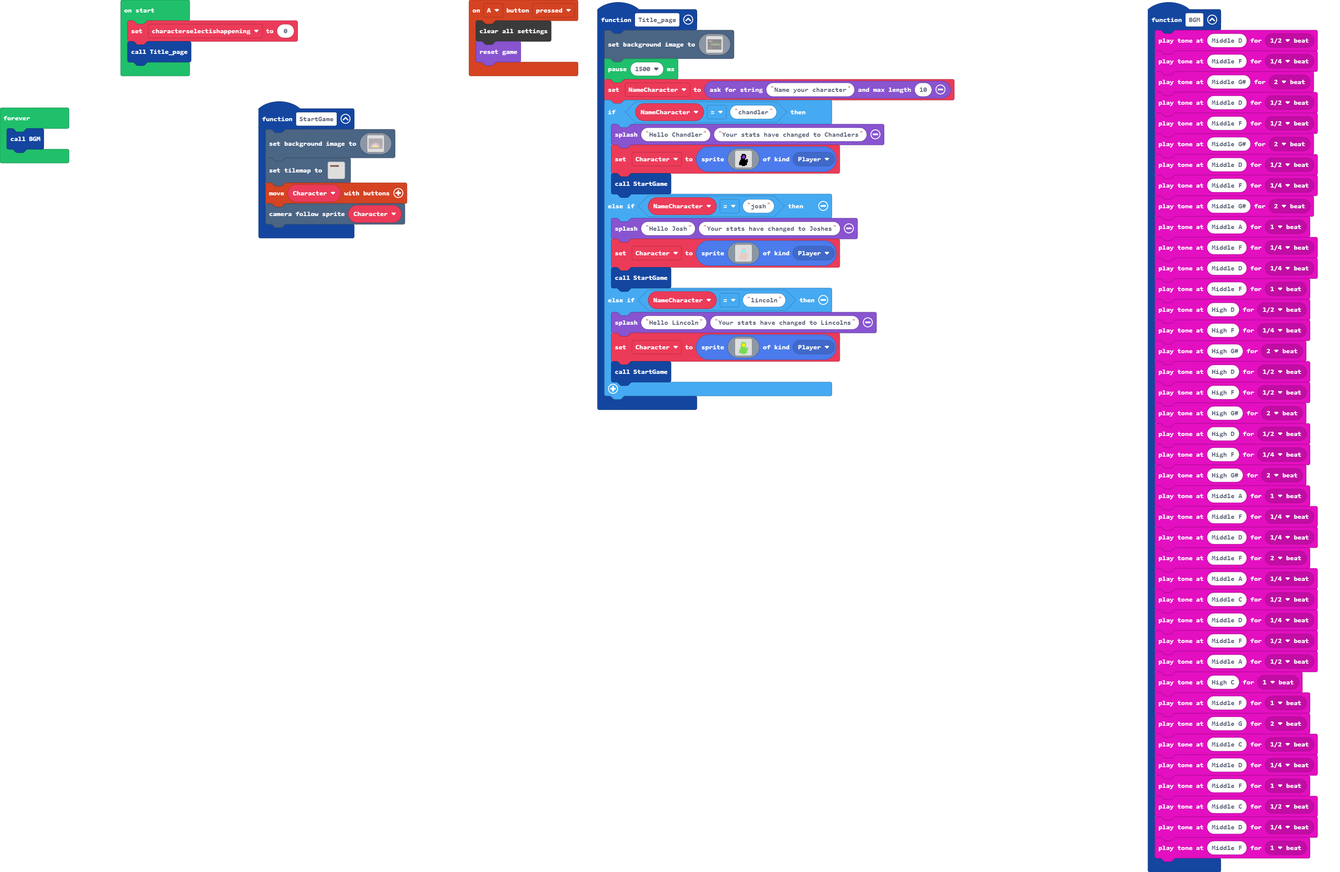
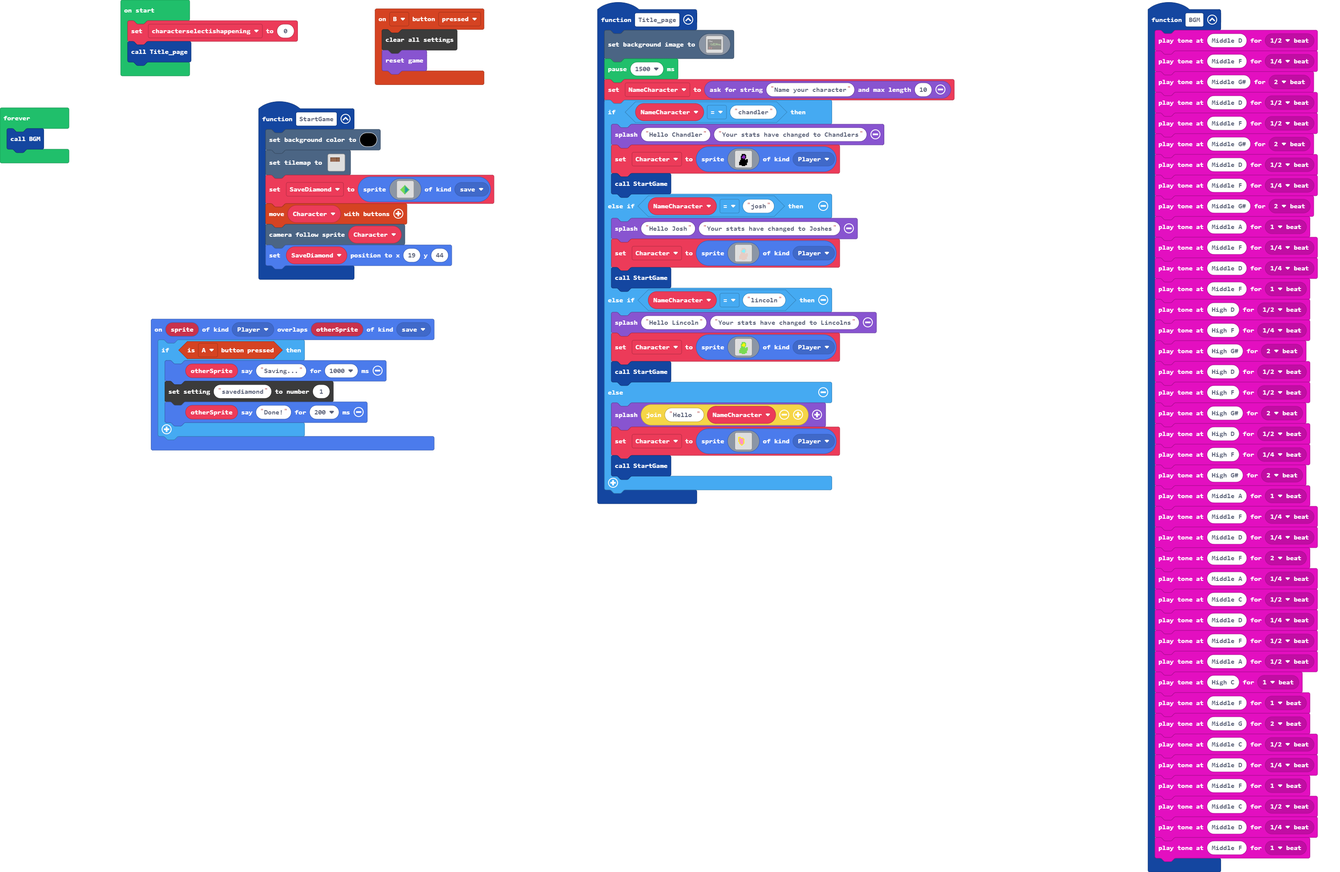
More mechanics

Changed region(s): [[0.0936, 0.0, 0.4369, 0.5297], [0.4369, 0.4362, 0.6242, 0.592]]

diff --git a/main.ts b/main.ts
@@ -1,8 +1,16 @@
 namespace SpriteKind {
     export const BackgroundP = SpriteKind.create()
     export const Cursor = SpriteKind.create()
+    export const save = SpriteKind.create()
 }
-controller.A.onEvent(ControllerButtonEvent.Pressed, function () {
+sprites.onOverlap(SpriteKind.Player, SpriteKind.save, function (sprite, otherSprite) {
+    if (controller.A.isPressed()) {
+        otherSprite.say("Saving...", 1000)
+        blockSettings.writeNumber("savediamond", 1)
+        otherSprite.say("Done!", 200)
+    }
+})
+controller.B.onEvent(ControllerButtonEvent.Pressed, function () {
     blockSettings.clear()
     game.reset()
 })
@@ -236,137 +244,40 @@ function Title_page () {
             . . . . . . 7 7 7 7 . . . . . . 
             `, SpriteKind.Player)
         StartGame()
+    } else {
+        game.splash("Hello " + NameCharacter)
+        Character = sprites.create(img`
+            . . . . . . . . . . . . . . . . 
+            . . . . . . . . . . . . . . . . 
+            . . . . . . . . . . . . . . . . 
+            . . 5 5 5 . . . . . . . . . . . 
+            . . 5 3 3 5 5 5 . . . . . . . . 
+            . . 5 3 3 3 3 3 5 . . . . . . . 
+            . . 5 3 3 3 3 3 5 . . . . . . . 
+            . . 5 3 3 3 3 3 5 . . . . . . . 
+            . . 5 3 3 3 3 3 5 . . . . . . . 
+            . . . 5 3 3 3 3 5 . . . . . . . 
+            . . . 5 3 3 3 3 5 . . . . . . . 
+            . . . . 5 3 3 5 . . . . . . . . 
+            . . . . . 5 5 . . . . . . . . . 
+            . . . . . . . . . . . . . . . . 
+            . . . . . . . . . . . . . . . . 
+            . . . . . . . . . . . . . . . . 
+            `, SpriteKind.Player)
+        StartGame()
     }
 }
 function StartGame () {
-    scene.setBackgroundImage(img`
-        c c c c c c c c c c c c c c c c c c c c c c c c c c c c c c c c c c c c c c c c c c c c c c c c c c c c c c c c c c c c c c c c c c c c c c c c c c c c c c c c c c c c c c c c c c c c c c c c c c c c c c c c c c c c c c c c c c c c c c c c c c c c c c c c c c c c c c c c c c c c c c c c c c c c c c c c c c c c c c c c 
-        c c c c c c c c c c c c c c c c c c c c c c c c c c c c c c c c c c c c c c c c c c c c c c c c c c c c c c c c c c c c c c c c c c c c c c c c c c c c c c c c c c c c c c c c c c c c c c c c c c c c c c c c c c c c c c c c c c c c c c c c c c c c c c c c c c c c c c c c c c c c c c c c c c c c c c c c c c c c c c c c 
-        c c c c c c c c c c c c c c c c c c c c c c c c c c c c c c c c c c c c c c c c c c c c c c c c c c c c c c c c c c c c c c c c c c c c c c c c c c c c c c c c c c c c c c c c c c c c c c c c c c c c c c c c c c c c c c c c c c c c c c c c c c c c c c c c c c c c c c c c c c c c c c c c c c c c c c c c c c c c c c c c 
-        c c c c c c c c c c c c c c c c c c c c c c c c c c c c c c c c c c c c c c c c c c c c c c c c c c c c c c c c c c c c c c c c c c c c c c c c c c c c c c c c c c c c c c c c c c c c c c c c c c c c c c c c c c c c c c c c c c c c c c c c c c c c c c c c c c c c c c c c c c c c c c c c c c c c c c c c c c c c c c c c 
-        c c c c c c c c c c c c c c c c c c c c c c c c c c c c c c c c c c c c c c c c c c c c c c c c c c c c c c c c c c c c c c c c c c c c c c c c c c c c c c c c c c c c c c c c c c c c c c c c c c c c c c c c c c c c c c c c c c c c c c c c c c c c c c c c c c c c c c c c c c c c c c c c c c c c c c c c c c c c c c c c 
-        c c c c c c c c c c c c c c c c c c c c c c c c c c c c c c c c c c c c c c c c c c c c c c c c c c c c c c c c c c c c c c c c c c c c c c c c c c c c c c c c c c c c c c c c c c c c c c c c c c c c c c c c c c c c c c c c c c c c c c c c c c c c c c c c c c c c c c c c c c c c c c c c c c c c c c c c c c c c c c c c 
-        c c c c c c c c c c c c c c c c c c c c c c c c c c c c c c c c c c c c c c c c c c c c c c c c c c c c c c c c c c c c c c c c c c c c c c c c c c c c c c c c c c c c c c c c c c c c c c c c c c c c c c c c c c c c c c c c c c c c c c c c c c c c c c c c c c c c c c c c c c c c c c c c c c c c c c c c c c c c c c c c 
-        c c c c c c c c c c c c c c c c c c c c c c c c c c c c c c c c c c c c c c c c c c c c c c c c c c c c c c c c c c c c c c c c c c c c c c c c c c c c c c c c c c c c c c c c c c c c c c c c c c c c c c c c c c c c c c c c c c c c c c c c c c c c c c c c c c c c c c c c c c c c c c c c c c c c c c c c c c c c c c c c 
-        c c c c c c c c c c c c c c c c c c c c c c c c c c c c c c c c c c c c c c c c c c c c c c c c c c c c c c c c c c c c c c c c c c c c c c c c c c c c c c c c c c c c c c c c c c c c c c c c c c c c c c c c c c c c c c c c c c c c c c c c c c c c c c c c c c c c c c c c c c c c c c c c c c c c c c c c c c c c c c c c 
-        c c c c c c c c c c c c c c c c c c c c c c c c c c c c c c c c c c c c c c c c c c c c c c c c c c c c c c c c c c c c c c c c c c c c c c c c c c c c c c c c c c c c c c c c c c c c c c c c c c c c c c c c c c c c c c c c c c c c c c c c c c c c c c c c c c c c c c c c c c c c c c c c c c c c c c c c c c c c c c c c 
-        c c c c c c c c c c c c c c c c c c c c c c c c c c c c c c c c c c c c c c c c c c c c c c c c c c c c c c c c c c c c c c c c c c c c c c c c c c c c c c c c c c c c c c c c c c c c c c c c c c c c c c c c c c c c c c c c c c c c c c c c c c c c c c c c c c c c c c c c c c c c c c c c c c c c c c c c c c c c c c c c 
-        c c c c c c c c c c c c c c c c c c c c c c c c c c c c c c c c c c c c c c c c c c c c c c c c c c c c c c c c c c c c c c c c c c c c c c c c c c c c c c c c c c c c c c c c c c c c c c c c c c c c c c c c c c c c c c c c c c c c c c c c c c c c c c c c c c c c c c c c c c c c c c c c c c c c c c c c c c c c c c c c 
-        c c c c c c c c c c c c c c c c c c c c c c c c c c c c c c c c c c c c c c c c c c c c c c c c c c c c c c c c c c c c c c c c c c c c c c c c c c c c c c c c c c c c c c c c c c c c c c c c c c c c c c c c c c c c c c c c c c c c c c c c c c c c c c c c c c c c c c c c c c c c c c c c c c c c c c c c c c c c c c c c 
-        c c c c c c c c c c c c c c c c c c c c c c c c c c c c c c c c c c c c c c c c c c c c c c c c c c c c c c c c c c c c c c c c c c c c c c c c c c c c c c c c c c c c c c c c c c c c c c c c c c c c c c c c c c c c c c c c c c c c c c c c c c c c c c c c c c c c c c c c c c c c c c c c c c c c c c c c c c c c c c c c 
-        c c c c c c c c c c c c c c c c c c c c c c c c c c c c c c c c c c c c c c c c c c c c c c c c c c c c c c c c c c c c c c c c c c c c c c c c c c c c c c c c c c c c c c c c c c c c c c c c c c c c c c c c c c c c c c c c c c c c c c c c c c c c c c c c c c c c c c c c c c c c c c c c c c c c c c c c c c c c c c c c 
-        c c c c c c c c c c c c c c c c c c c c c c c c c c c c c c c c c c c c c c c c c c c c c c c c c c c c c c c c c c c c c c c c c c c c c c c c c c c c c c c c c c c c c c c c c c c c c c c c c c c c c c c c c c c c c c c c c c c c c c c c c c c c c c c c c c c c c c c c c c c c c c c c c c c c c c c c c c c c c c c c 
-        c c c c c c c c c c c c c c c c c c c c c c c c c c c c c c c c c c c c c c c c c c c c c c c c c c c c c c c c c c c c c c c c c c c c c c c c c c c c c c c c c c c c c c c c c c c c c c c c c c c c c c c c c c c c c c c c c c c c c c c c c c c c c c c c c c c c c c c c c c c c c c c c c c c c c c c c c c c c c c c c 
-        c c c c c c c c c c c c c c c c c c c c c c c c c c c c c c c c c c c c c c c c c c c c c c c c c c c c c c c c c c c c c c c c c c c c c c c c c c c c c c c c c c c c c c c c c c c c c c c c c c c c c c c c c c c c c c c c c c c c c c c c c c c c c c c c c c c c c c c c c c c c c c c c c c c c c c c c c c c c c c c c 
-        c c c c c c c c c c c c c c c c c c c c c c c c c c c c c c c c c c c c c c c c c c c c c c c c c c c c c c c c c c c c c c c c c c c c c c c c c c c c c c c c c c c c c c c c c c c c c c c c c c c c c c c c c c c c c c c c c c c c c c c c c c c c c c c c c c c c c c c c c c c c c c c c c c c c c c c c c c c c c c c c 
-        c c c c c c c c c c c c c c c c c c c c c c c c c c c c c c c c c c c c c c c c c c c c c c c c c c c c c c c c c c c c c c c c c c c c c c c c c c c c c c c c c c c c c c c c c c c c c c c c c c c c c c c c c c c c c c c c c c c c c c c c c c c c c c c c c c c c c c c c c c c c c c c c c c c c c c c c c c c c c c c c 
-        c c c c c c c c c c c c c c c c c c c c c c c c c c c c c c c c c c c c c c c c c c c c c c c c c c c c c c c c c c c c c c c c c c c c c c c c c c c c c c c c c c c c c c c c c c c c c c c c c c c c c c c c c c c c c c c c c c c c c c c c c c c c c c c c c c c c c c c c c c c c c c c c c c c c c c c c c c c c c c c c 
-        c c c c c c c c c c c c c c c c c c c c c c c c c c c c c c c c c c c c c c c c c c c c c c c c c c c c c c c c c c c c c c c c c c c c c c c c c c c c c c c c c c c c c c c c c c c c c c c c c c c c c c c c c c c c c c c c c c c c c c c c c c c c c c c c c c c c c c c c c c c c c c c c c c c c c c c c c c c c c c c c 
-        c c c c c c c c c c c c c c c c c c c c c c c c c c c c c c c c c c c c c c c c c c c c c c c c c c c c c c c c c c c c c c c c c c c c c c c c c c c c c c c c c c c c c c c c c c c c c c c c c c c c c c c c c c c c c c c c c c c c c c c c c c c c c c c c c c c c c c c c c c c c c c c c c c c c c c c c c c c c c c c c 
-        c c c c c c c c c c c c c c c c c c c c c c c c c c c c c c c c c c c c c c c c c c c c c c c c c c c c c c c c c c c c c c c c c c c c c c c c c c c c c c c c c c c c c c c c c c c c c c c c c c c c c c c c c c c c c c c c c c c c c c c c c c c c c c c c c c c c c c c c c c c c c c c c c c c c c c c c c c c c c c c c 
-        c c c c c c c c c c c c c c c c c c c c c c c c c c c c c c c c c c c c c c c c c c c c c c c c c c c c c c c c c c c c c c c c c c c c c c c c c c c c c c c c c c c c c c c c c c c c c c c c c c c c c c c c c c c c c c c c c c c c c c c c c c c c c c c c c c c c c c c c c c c c c c c c c c c c c c c c c c c c c c c c 
-        c c c c c c c c c c c c c c c c c c c c c c c c c c c c c c c c c c c c c c c c c c c c c c c c c c c c c c c c c c c c c c c c c c c c c c c c c c c c c c c c c c c c c c c c c c c c c c c c c c c c c c c c c c c c c c c c c c c c c c c c c c c c c c c c c c c c c c c c c c c c c c c c c c c c c c c c c c c c c c c c 
-        c c c c c c c c c c c c c c c c c c c c c c c c c c c c c c c c c c c c c c c c c c c c c c c c c c c c c c c c c c c c c c c c c c c c c c c c c c c c c c c c c c c c c c c c c c c c c c c c c c c c c c c c c c c c c c c c c c c c c c c c c c c c c c c c c c c c c c c c c c c c c c c c c c c c c c c c c c c c c c c c 
-        c c c c c c c c c c c c c c c c c c c c c c c c c c c c c c c c c c c c c c c c c c c c c c c c c c c c c c c c c c c c c c c c c c c c c c c c c c c c c c c c c c c c c c c c c c c c c c c c c c c c c c c c c c c c c c c c c c c c c c c c c c c c c c c c c c c c c c c c c c c c c c c c c c c c c c c c c c c c c c c c 
-        c c c c c c c c c c c c c c c c c c c c c c c c c c c c c c c c c c c c c c c c c c c c c c c c c c c c c c c c c c c c c c c c c c c c c c c c c c c c c c c c c c c c c c c c c c c c c c c c c c c c c c c c c c c c c c c c c c c c c c c c c c c c c c c c c c c c c c c c c c c c c c c c c c c c c c c c c c c c c c c c 
-        c c c c c c c c c c c c c c c c c c c c c c c c c c c c c c c c c c c c c c c c c c c c c c c c c c c c c c c c c c c c c c c c c c c c c c c c c c c c c c c c c c c c c c c c c c c c c c c c c c c c c c c c c c c c c c c c c c c c c c c c c c c c c c c c c c c c c c c c c c c c c c c c c c c c c c c c c c c c c c c c 
-        c c c c c c c c c c c c c c c c c c c c c c c c c c c c c c c c c c c c c c c c c c c c c c c c c c c c c c c c c c c c c c c c c c c c c c c c c c c c c c c c c c c c c c c c c c c c c c c c c c c c c c c c c c c c c c c c c c c c c c c c c c c c c c c c c c c c c c c c c c c c c c c c c c c c c c c c c c c c c c c c 
-        c c c c c c c c c c c c c c c c c c c c c c c c c c c c c c c c c c c c c c c c c c c c c c c c c c c c c c c c c c c c c c c c c c c c c c c c c c c c c c c c c c c c c c c c c c c c c c c c c c c c c c c c c c c c c c c c c c c c c c c c c c c c c c c c c c c c c c c c c c c c c c c c c c c c c c c c c c c c c c c c 
-        c c c c c c c c c c c c c c c c c c c c c c c c c c c c c c c c c c c c c c c c c c c c c c c c c c c c c c c c c c c c c c c c c c c c c c c c c c c c c c c c c c c c c c c c c c c c c c c c c c c c c c c c c c c c c c c c c c c c c c c c c c c c c c c c c c c c c c c c c c c c c c c c c c c c c c c c c c c c c c c c 
-        c c c c c c c c c c c c c c c c c c c c c c c c c c c c c c c c c c c c c c c c c c c c c c c c c c c c c c c c c c c c c c c c c c c c c c c c c c c c c c c c c c c c c c c c c c c c c c c c c c c c c c c c c c c c c c c c c c c c c c c c c c c c c c c c c c c c c c c c c c c c c c c c c c c c c c c c c c c c c c c c 
-        c c c c c c c c c c c c c c c c c c c c c c c c c c c c c c c c c c c c c c c c c c c c c c c c c c c c c c c c c c c c c c c c c c c c c c c c c c c c c c c c c c c c c c c c c c c c c c c c c c c c c c c c c c c c c c c c c c c c c c c c c c c c c c c c c c c c c c c c c c c c c c c c c c c c c c c c c c c c c c c c 
-        c c c c c c c c c c c c c c c c c c c c c c c c c c c c c c c c c c c c c c c c c c c c c c c c c c c c c c c c c c c c c c c c c c c c c c c c c c c c c c c c c c c c c c c c c c c c c c c c c c c c c c c c c c c c c c c c c c c c c c c c c c c c c c c c c c c c c c c c c c c c c c c c c c c c c c c c c c c c c c c c 
-        c c c c c c c c c c c c c c c c c c c c c c c c c c c c c c c c c c c c c c c c c c c c c c c c c c c c c c c c c c c c c c c c c c c c c c c c c c c c c c c c c c c c c c c c c c c c c c c c c c c c c c c c c c c c c c c c c c c c c c c c c c c c c c c c c c c c c c c c c c c c c c c c c c c c c c c c c c c c c c c c 
-        c c c c c c c c c c c c c c c c c c c c c c c c c c c c c c c c c c c c c c c c c c c c c c c c c c c c c c c c c c c c c c c c c c c c c c c c c c c c c c c c c c c c c c c c c c c c c c c c c c c c c c c c c c c c c c c c c c c c c c c c c c c c c c c c c c c c c c c c c c c c c c c c c c c c c c c c c c c c c c c c 
-        c c c c c c c c c c c c c c c c c c c c c c c c c c c c c c c c c c c c c c c c c c c c c c c c c c c c c c c c c c c c c c c c c c c c c c c c c c c c c c c c c c c c c c c c c c c c c c c c c c c c c c c c c c c c c c c c c c c c c c c c c c c c c c c c c c c c c c c c c c c c c c c c c c c c c c c c c c c c c c c c 
-        c c c c c c c c c c c c c c c c c c c c c c c c c c c c c c c c c c c c c c c c c c c c c c c c c c c c c c c c c c c c c c c c c c c c c c c c c c c c c c c c c c c c c c c c c c c c c c c c c c c c c c c c c c c c c c c c c c c c c c c c c c c c c c c c c c c c c c c c c c c c c c c c c c c c c c c c c c c c c c c c 
-        c c c c c c c c c c c c c c c c c c c c c c c c c c c c c c c c c c c c c c c c c c c c c c c c c c c c c c c c c c c c c c c c c c c c c c c c c c c c c c c c c c c c c c c c c c c c c c c c c c c c c c c c c c c c c c c c c c c c c c c c c c c c c c c c c c c c c c c c c c c c c c c c c c c c c c c c c c c c c c c c 
-        c c c c c c c c c c c c c c c c c c c c c c c c c c c c c c c c c c c c c c c c c c c c c c c c c c c c c c c c c c c c c c c c c c c c c c c c c c c c c c c c c c c c c c c c c c c c c c c c c c c c c c c c c c c c c c c c c c c c c c c c c c c c c c c c c c c c c c c c c c c c c c c c c c c c c c c c c c c c c c c c 
-        c c c c c c c c c c c c c c c c c c c c c c c c c c c c c c c c c c c c c c c c c c c c c c c c c c c c c c c c c c c c c c c c c c c c c c c c c c c c c c c c c c c c c c c c c c c c c c c c c c c c c c c c c c c c c c c c c c c c c c c c c c c c c c c c c c c c c c c c c c c c c c c c c c c c c c c c c c c c c c c c 
-        c c c c c c c c c c c c c c c c c c c c c c c c c c c c c c c c c c c c c c c c c c c c c c c c c c c c c c c c c c c c c c c c c c c c c c c c c c c c c c c c c c c c c c c c c c c c c c c c c c c c c c c c c c c c c c c c c c c c c c c c c c c c c c c c c c c c c c c c c c c c c c c c c c c c c c c c c c c c c c c c 
-        c c c c c c c c c c c c c c c c c c c c c c c c c c c c c c c c c c c c c c c c c c c c c c c c c c c c c c c c c c c c c c c c c c c c c c c c c c c c c c c c c c c c c c c c c c c c c c c c c c c c c c c c c c c c c c c c c c c c c c c c c c c c c c c c c c c c c c c c c c c c c c c c c c c c c c c c c c c c c c c c 
-        c c c c c c c c c c c c c c c c c c c c c c c c c c c c c c c c c c c c c c c c c c c c c c c c c c c c c c c c c c c c c c c c c c c c c c c c c c c c c c c c c c c c c c c c c c c c c c c c c c c c c c c c c c c c c c c c c c c c c c c c c c c c c c c c c c c c c c c c c c c c c c c c c c c c c c c c c c c c c c c c 
-        c c c c c c c c c c c c c c c c c c c c c c c c c c c c c c c c c c c c c c c c c c c c c c c c c c c c c c c c c c c c c c c c c c c c c c c c c c c c c c c c c c c c c c c c c c c c c c c c c c c c c c c c c c c c c c c c c c c c c c c c c c c c c c c c c c c c c c c c c c c c c c c c c c c c c c c c c c c c c c c c 
-        c c c c c c c c c c c c c c c c c c c c c c c c c c c c c c c c c c c c c c c c c c c c c c c c c c c c c c c c c c c c c c c c c c c c c c c c b b b b b b b b b c c c c c c c c c c c c c c c c c c c c c c c c c c c c c c c c c c c c c c c c c c c c c c c c c c c c c c c c c c c c c c c c c c c c c c c c c c c c c c c 
-        c c c c c c c c c c c c c c c c c c c c c c c c c c c c c c c c c c c c c c c c c c c c c c c c c c c c c c c c c c c c c c c c c c c c c c c b b b b b b b b b b b b b b b b b b b b c c c c c c c c c c c c c c c c c c c c c c c c c c c c c c c c c c c c c c c c c c c c c c c c c c c c c c c c c c c c c c c c c c c c c 
-        c c c c c c c c c c c c c c c c c c c c c c c c c c c c c c c c c c c c c c c c c c c c c c c c c c c c c c c c c c c c c c c c c c c c c b b b b b b b b b b b b b b b b b b b b b b b b b b c c c c c c c c c c c c c c c c c c c c c c c c c c c c c c c c c c c c c c c c c c c c c c c c c c c c c c c c c c c c c c c c c 
-        c c c c c c c c c c c c c c c c c c c c c c c c c c c c c c c c c c c c c c c c c c c c c c c c c c c c c c c c c c c c c c c c c b b b b b b b b b b b b b b b b b b b b b b b b b b b b b b b b b b c c c c c c c c c c c c c c c c c c c c c c c c c c c c c c c c c c c c c c c c c c c c c c c c c c c c c c c c c c c c c 
-        c c c c c c c c c c c c c c c c c c c c c c c c c c c c c c c c c c c c c c c c c c c c c c c c c c c c c c c c c c c c c b b b b b b b b b b b b b b b b b b b b b b b b b b b b b b b b b b b b b b b b b b c c c c c c c c c c c c c c c c c c c c c c c c c c c c c c c c c c c c c c c c c c c c c c c c c c c c c c c c c 
-        c c c c c c c c c c c c c c c c c c c c c c c c c c c c c c c c c c c c c c c c c c c c c c c c c c c c c c c c c c b b b b b b b b b b b b b b b b b b b b b b b b b b b b b b b b b b b b b b b b b b b b b b b c c c c c c c c c c c c c c c c c c c c c c c c c c c c c c c c c c c c c c c c c c c c c c c c c c c c c c c 
-        c c c c c c c c c c c c c c c c c c c c c c c c c c c c c c c c c c c c c c c c c c c c c c c c c c c c c b b b b b b b b b b b b b b b b b b b b b b b b b b b b b b b b b b b b b b b b b b b b b b b b b b b b b c c c c c c c c c c c c c c c c c c c c c c c c c c c c c c c c c c c c c c c c c c c c c c c c c c c c c c 
-        c c c c c c c c c c c c c c c c c c c c c c c c c c c c c c c c c c c c c c c c c c c c c c c c c c c c b b b b b b b b b b b b b b b b b b b b b b b b b b b b b b b b b b b b b b b b b b b b b b b b b b b b b b b b c c c c c c c c c c c c c c c c c c c c c c c c c c c c c c c c c c c c c c c c c c c c c c c c c c c c 
-        c c c c c c c c c c c c c c c c c c c c c c c c c c c c c c c c c c c c c c c c c c c c c c c c c c c b b b b b b b b b b b b b b b b b b b b b b b b b b b b b b b b b b b b b b b b b b b b b b b b b b b b b b b b b b c c c c c c c c c c c c c c c c c c c c c c c c c c c c c c c c c c c c c c c c c c c c c c c c c c c 
-        c c c c c c c c c c c c c c c c c c c c c c c c c c c c c c c c c c c c c c c c c c c c c c c c c b b b b b b b b b b b b b b b b b b b b b b b b b b b b b b b b b b b b b b b b b b b b b b b b b b b b b b b b b b b b b c c c c c c c c c c c c c c c c c c c c c c c c c c c c c c c c c c c c c c c c c c c c c c c c c c 
-        c c c c c c c c c c c c c c c c c c c c c c c c c c c c c c c c c c c c c c c c c c c c c c c c b b b b b b b b b b b b b b b b b b b b b b b b b b b b b b b b b b b b b b b b b b b b b b b b b b b b b b b b b b b b b b b b c c c c c c c c c c c c c c c c c c c c c c c c c c c c c c c c c c c c c c c c c c c c c c c c 
-        c c c c c c c c c c c c c c c c c c c c c c c c c c c c c c c c c c c c c c c c c c c c c c b b b b b b b b b b b b b b b b b b b b b b b b b b b b b b b b b b b b b b b b b b b b b b b b b b b b b b b b b b b b b b b b b b b c c c c c c c c c c c c c c c c c c c c c c c c c c c c c c c c c c c c c c c c c c c c c c c 
-        c c c c c c c c c c c c c c c c c c c c c c c c c c c c c c c c c c c c c c c c c c c c c b b b b b b b b b b b b b b b b b b b b b b b b b b b b b b b b b b b b b b b b b b b b b b b b b b b b b b b b b b b b b b b b b b b b b c c c c c c c c c c c c c c c c c c c c c c c c c c c c c c c c c c c c c c c c c c c c c c 
-        c c c c c c c c c c c c c c c c c c c c c c c c c c c c c c c c c c c c c c c c c c c c b b b b b b b b b b b b b b b b b b b b b b b b b b b b b b b b b b b b b b b b b b b b b b b b b b b b b b b b b b b b b b b b b b b b b b b c c c c c c c c c c c c c c c c c c c c c c c c c c c c c c c c c c c c c c c c c c c c c 
-        c c c c c c c c c c c c c c c c c c c c c c c c c c c c c c c c c c c c c c c c c c b b b b b b b b b b b b b b b b b b b b b b b b b b b b b b b b b b b b b b b b b b b b b b b b b b b b b b b b b b b b b b b b b b b b b b b b b c c c c c c c c c c c c c c c c c c c c c c c c c c c c c c c c c c c c c c c c c c c c c 
-        c c c c c c c c c c c c c c c c c c c c c c c c c c c c c c c c c c c c c c c c c b b b b b b b b b b b b b b b b b b b b b b b b b b b b b b b b b b b b b b b b b b b b b b b b b b b b b b b b b b b b b b b b b b b b b b b b b b b c c c c c c c c c c c c c c c c c c c c c c c c c c c c c c c c c c c c c c c c c c c c 
-        c c c c c c c c c c c c c c c c c c c c c c c c c c c c c c c c c c c c c c c b b b b b b b b b b b b b b b b b b b b b b b b b b b b b b b b b b b b b b b b 3 3 b b b b b b b b b b b b b b b b b b b b b b b b b b b b b b b b b b b b c c c c c c c c c c c c c c c c c c c c c c c c c c c c c c c c c c c c c c c c c c c 
-        c c c c c c c c c c c c c c c c c c c c c c c c c c c c c c c c c c c c c b b b b b b b b b b b b b b b b b b b b b b b b b b b 3 3 3 3 3 3 3 3 3 3 3 3 b 3 3 3 3 3 3 3 b b b b b b b b b b b b b b b b b b b b b b b b b b b b b b b b b b c c c c c c c c c c c c c c c c c c c c c c c c c c c c c c c c c c c c c c c c c c 
-        c c c c c c c c c c c c c c c c c c c c c c c c c c c c c c c c c c c c b b b b b b b b b b b b b b b b b b b b b b b b b b b 3 3 3 3 3 3 3 3 3 3 3 3 3 3 3 3 3 3 3 3 3 3 3 b b b b b b b b b b b b b b b b b b b b b b b b b b b b b b b b b c c c c c c c c c c c c c c c c c c c c c c c c c c c c c c c c c c c c c c c c c 
-        c c c c c c c c c c c c c c c c c c c c c c c c c c c c c c c c c c c b b b b b b b b b b b b b b b b b b b b b b b b b b 3 3 3 3 3 3 3 3 3 3 3 3 3 3 3 3 3 3 3 3 3 3 3 3 3 3 3 3 b b b b b b b b b b b b b b b b b b b b b b b b b b b b b b b c c c c c c c c c c c c c c c c c c c c c c c c c c c c c c c c c c c c c c c c 
-        c c c c c c c c c c c c c c c c c c c c c c c c c c c c c c c c c c b b b b b b b b b b b b b b b b b b b b b b b b b 3 3 3 3 3 3 3 3 3 3 3 3 3 3 3 3 3 3 3 3 3 3 3 3 3 3 3 3 3 3 3 3 3 b b b b b b b b b b b b b b b b b b b b b b b b b b b b b c c c c c c c c c c c c c c c c c c c c c c c c c c c c c c c c c c c c c c c 
-        c c c c c c c c c c c c c c c c c c c c c c c c c c c c c c c c c b b b b b b b b b b b b b b b b b b b b b b b b 3 3 3 3 3 3 3 3 3 3 3 3 3 3 3 3 3 3 3 3 3 3 3 3 3 3 3 3 3 3 3 3 3 3 3 3 3 b b b b b b b b b b b b b b b b b b b b b b b b b b b c c c c c c c c c c c c c c c c c c c c c c c c c c c c c c c c c c c c c c c 
-        c c c c c c c c c c c c c c c c c c c c c c c c c c c c c c c c b b b b b b b b b b b b b b b b b b b b b b b 3 3 3 3 3 3 3 3 3 3 3 3 3 3 3 3 3 3 3 3 3 3 3 3 3 3 3 3 3 3 3 3 3 3 3 3 3 3 3 3 3 b b b b b b b b b b b b b b b b b b b b b b b b b b c c c c c c c c c c c c c c c c c c c c c c c c c c c c c c c c c c c c c c 
-        c c c c c c c c c c c c c c c c c c c c c c c c c c c c c c c b b b b b b b b b b b b b b b b b b b b b b 3 3 3 3 3 3 3 3 3 3 3 3 3 3 3 3 3 3 3 3 3 3 3 3 3 3 3 3 3 3 3 3 3 3 3 3 3 3 3 3 3 3 3 3 3 3 b b b b b b b b b b b b b b b b b b b b b b b b c c c c c c c c c c c c c c c c c c c c c c c c c c c c c c c c c c c c c 
-        c c c c c c c c c c c c c c c c c c c c c c c c c c c c c c b b b b b b b b b b b b b b b b b b b 3 3 3 3 3 3 3 3 3 3 3 3 3 3 3 3 3 3 3 3 3 3 3 3 3 3 3 3 3 3 3 3 3 3 3 3 3 3 3 3 3 3 3 3 3 3 3 3 3 3 3 3 b b b b b b b b b b b b b b b b b b b b b b b c c c c c c c c c c c c c c c c c c c c c c c c c c c c c c c c c c c c 
-        c c c c c c c c c c c c c c c c c c c c c c c c c c c c c b b b b b b b b b b b b b b b b 3 3 3 3 3 3 3 3 3 3 3 3 3 3 3 3 3 3 3 3 3 3 3 3 3 3 3 3 3 3 3 3 3 3 3 3 3 3 3 3 3 3 3 3 3 3 3 3 3 3 3 3 3 3 3 3 3 3 b b b b b b b b b b b b b b b b b b b b b b b c c c c c c c c c c c c c c c c c c c c c c c c c c c c c c c c c c 
-        c c c c c c c c c c c c c c c c c c c c c c c c c c c c b b b b b b b b b b b b b b b 3 3 3 3 3 3 3 3 3 3 3 3 3 3 3 3 3 3 3 3 3 3 3 3 3 3 3 3 3 3 3 3 3 3 3 3 3 3 3 3 3 3 3 3 3 3 3 3 3 3 3 3 3 3 3 3 3 3 3 3 3 3 3 3 b b b b b b b b b b b b b b b b b b b c c c c c c c c c c c c c c c c c c c c c c c c c c c c c c c c c c 
-        c c c c c c c c c c c c c c c c c c c c c c c c c c c b b b b b b b b b b b b b b b b 3 3 3 3 3 3 3 3 3 3 3 3 3 3 3 3 3 3 3 3 3 3 3 3 3 3 3 3 3 3 3 3 3 3 3 3 3 3 3 3 3 3 3 3 3 3 3 3 3 3 3 3 3 3 3 3 3 3 3 3 3 3 3 3 3 3 b b b b b b b b b b b b b b b b b c c c c c c c c c c c c c c c c c c c c c c c c c c c c c c c c c c 
-        c c c c c c c c c c c c c c c c c c c c c c c c c c b b b b b b b b b b b b b b b b 3 3 3 3 3 3 3 3 3 3 3 3 3 3 3 3 3 3 3 3 3 3 3 3 3 3 3 3 3 3 3 3 3 3 3 3 3 3 3 3 3 3 3 3 3 3 3 3 3 3 3 3 3 3 3 3 3 3 3 3 3 3 3 3 3 3 3 b b b b b b b b b b b b b b b b b b c c c c c c c c c c c c c c c c c c c c c c c c c c c c c c c c c 
-        c c c c c c c c c c c c c c c c c c c c c c c c c b b b b b b b b b b b b b b b 3 3 3 3 3 3 3 3 3 3 3 3 3 3 3 3 3 3 3 3 3 3 3 3 3 3 3 3 3 3 3 3 3 3 3 3 3 3 3 3 3 3 3 3 3 3 3 3 3 3 3 3 3 3 3 3 3 3 3 3 3 3 3 3 3 3 3 3 3 b b b b b b b b b b b b b b b b b b c c c c c c c c c c c c c c c c c c c c c c c c c c c c c c c c c 
-        c c c c c c c c c c c c c c c c c c c c c c c c c b b b b b b b b b b b b b b 3 3 3 3 3 3 3 3 3 3 3 3 3 3 3 3 3 3 3 3 3 3 3 3 3 3 3 3 3 3 3 3 3 3 3 3 3 3 3 3 3 3 3 3 3 3 3 3 3 3 3 3 3 3 3 3 3 3 3 3 3 3 3 3 3 3 3 3 3 3 3 b b b b b b b b b b b b b b b b b c c c c c c c c c c c c c c c c c c c c c c c c c c c c c c c c c 
-        c c c c c c c c c c c c c c c c c c c c c c c c b b b b b b b b b b b b b b 3 3 3 3 3 3 3 3 3 3 3 3 3 3 3 3 3 3 3 3 3 3 3 3 3 3 3 3 3 3 3 3 3 3 3 3 3 3 3 3 3 3 3 3 3 3 3 3 3 3 3 3 3 3 3 3 3 3 3 3 3 3 3 3 3 3 3 3 3 3 3 3 3 b b b b b b b b b b b b b b b b b c c c c c c c c c c c c c c c c c c c c c c c c c c c c c c c c 
-        c c c c c c c c c c c c c c c c c c c c c c c c b b b b b b b b b b b b b 3 3 3 3 3 3 3 3 3 3 3 3 3 3 3 3 3 3 3 3 3 3 3 3 3 3 3 3 3 3 3 3 5 5 5 5 5 5 5 5 5 5 5 5 5 5 5 5 5 3 3 3 3 3 3 3 3 3 3 3 3 3 3 3 3 3 3 3 3 3 3 3 3 3 3 b b b b b b b b b b b b b b b b c c c c c c c c c c c c c c c c c c c c c c c c c c c c c c c c 
-        c c c c c c c c c c c c c c c c c c c c c c c b b b b b b b b b b b b b b 3 3 3 3 3 3 3 3 3 3 3 3 3 3 3 3 3 3 3 3 3 3 3 3 3 3 3 3 5 5 5 5 5 5 5 5 5 5 5 5 5 5 5 5 5 5 5 5 5 5 5 5 5 3 3 3 3 3 3 3 3 3 3 3 3 3 3 3 3 3 3 3 3 3 3 b b b b b b b b b b b b b b b b c c c c c c c c c c c c c c c c c c c c c c c c c c c c c c c c 
-        c c c c c c c c c c c c c c c c c c c c c c c b b b b b b b b b b b b b 3 3 3 3 3 3 3 3 3 3 3 3 3 3 3 3 3 3 3 3 3 3 3 3 3 3 5 5 5 5 5 5 5 5 5 5 5 5 5 5 5 5 5 5 5 5 5 5 5 5 5 5 5 5 5 5 5 3 3 3 3 3 3 3 3 3 3 3 3 3 3 3 3 3 3 3 3 b b b b b b b b b b b b b b b b c c c c c c c c c c c c c c c c c c c c c c c c c c c c c c c 
-        c c c c c c c c c c c c c c c c c c c c c c c b b b b b b b b b b b b b 3 3 3 3 3 3 3 3 3 3 3 3 3 3 3 3 3 3 3 3 3 3 3 3 5 5 5 5 5 5 5 5 5 5 5 5 5 5 5 5 5 5 5 5 5 5 5 5 5 5 5 5 5 5 5 5 5 5 5 3 3 3 3 3 3 3 3 3 3 3 3 3 3 3 3 3 3 3 b b b b b b b b b b b b b b b c c c c c c c c c c c c c c c c c c c c c c c c c c c c c c c 
-        c c c c c c c c c c c c c c c c c c c c c c b b b b b b b b b b b b b b 3 3 3 3 3 3 3 3 3 3 3 3 3 3 3 3 3 3 3 3 3 3 5 5 5 5 5 5 5 5 5 5 5 5 5 5 5 5 5 5 5 5 5 5 5 5 5 5 5 5 5 5 5 5 5 5 5 5 5 5 5 3 3 3 3 3 3 3 3 3 3 3 3 3 3 3 3 b b b b b b b b b b b b b b b b b c c c c c c c c c c c c c c c c c c c c c c c c c c c c c c 
-        c c c c c c c c c c c c c c c c c c c c c c b b b b b b b b b b b b b 3 3 3 3 3 3 3 3 3 3 3 3 3 3 3 3 3 3 3 3 3 3 5 5 5 5 5 5 5 5 5 5 5 5 5 5 5 5 5 5 5 5 5 5 5 5 5 5 5 5 5 5 5 5 5 5 5 5 5 5 5 5 5 3 3 3 3 3 3 3 3 3 3 3 3 3 3 3 3 b b b b b b b b b b b b b b b b c c c c c c c c c c c c c c c c c c c c c c c c c c c c c c 
-        c c c c c c c c c c c c c c c c c c c c c b b b b b b b b b b b b b b 3 3 3 3 3 3 3 3 3 3 3 3 3 3 3 3 3 3 3 3 5 5 5 5 5 5 5 5 5 5 5 5 5 5 5 5 5 5 5 5 5 5 5 5 5 5 5 5 5 5 5 5 5 5 5 5 5 5 5 5 5 5 5 5 5 3 3 3 3 3 3 3 3 3 3 3 3 3 3 3 b b b b b b b b b b b b b b b c c c c c c c c c c c c c c c c c c c c c c c c c c c c c c 
-        c c c c c c c c c c c c c c c c c c c c c b b b b b b b b b b b b b b 3 3 3 3 3 3 3 3 3 3 3 3 3 3 3 3 3 3 3 5 5 5 5 5 5 5 5 5 5 5 5 5 5 5 5 5 5 5 5 5 5 5 5 5 5 5 5 5 5 5 5 5 5 5 5 5 5 5 5 5 5 5 5 5 5 5 3 3 3 3 3 3 3 3 3 3 3 3 3 3 b b b b b b b b b b b b b b b b c c c c c c c c c c c c c c c c c c c c c c c c c c c c c 
-        c c c c c c c c c c c c c c c c c c c c c b b b b b b b b b b b b b 3 3 3 3 3 3 3 3 3 3 3 3 3 3 3 3 3 3 3 5 5 5 5 5 5 5 5 5 5 5 5 5 5 5 5 5 5 5 5 5 5 5 5 5 5 5 5 5 5 5 5 5 5 5 5 5 5 5 5 5 5 5 5 5 5 5 5 5 3 3 3 3 3 3 3 3 3 3 3 3 3 3 b b b b b b b b b b b b b b b c c c c c c c c c c c c c c c c c c c c c c c c c c c c c 
-        c c c c c c c c c c c c c c c c c c c c c b b b b b b b b b b b b b 3 3 3 3 3 3 3 3 3 3 3 3 3 3 3 3 3 5 5 5 5 5 5 5 5 5 5 5 5 5 5 5 5 5 5 5 5 5 5 5 5 5 5 5 5 5 5 5 5 5 5 5 5 5 5 5 5 5 5 5 5 5 5 5 5 5 5 5 5 5 3 3 3 3 3 3 3 3 3 3 3 3 3 b b b b b b b b b b b b b b c c c c c c c c c c c c c c c c c c c c c c c c c c c c c 
-        c c c c c c c c c c c c c c c c c c c c b b b b b b b b b b b b b b 3 3 3 3 3 3 3 3 3 3 3 3 3 3 3 3 5 5 5 5 5 5 5 5 5 5 5 5 5 5 5 5 5 5 5 5 5 5 5 5 5 5 5 5 5 5 5 5 5 5 5 5 5 5 5 5 5 5 5 5 5 5 5 5 5 5 5 5 5 5 5 3 3 3 3 3 3 3 3 3 3 3 3 b b b b b b b b b b b b b b b c c c c c c c c c c c c c c c c c c c c c c c c c c c c 
-        c c c c c c c c c c c c c c c c c c c c b b b b b b b b b b b b b 3 3 3 3 3 3 3 3 3 3 3 3 3 3 3 3 5 5 5 5 5 5 5 5 5 5 5 5 5 5 5 5 5 5 5 5 5 5 5 5 5 5 5 5 5 5 5 5 5 5 5 5 5 5 5 5 5 5 5 5 5 5 5 5 5 5 5 5 5 5 5 5 5 3 3 3 3 3 3 3 3 3 3 3 3 b b b b b b b b b b b b b b c c c c c c c c c c c c c c c c c c c c c c c c c c c c 
-        c c c c c c c c c c c c c c c c c c c c b b b b b b b b b b b b b 3 3 3 3 3 3 3 3 3 3 3 3 3 3 3 5 5 5 5 5 5 5 5 5 5 5 5 5 5 5 5 5 5 5 5 5 5 5 5 5 5 5 5 5 5 5 5 5 5 5 5 5 5 5 5 5 5 5 5 5 5 5 5 5 5 5 5 5 5 5 5 5 5 5 3 3 3 3 3 3 3 3 3 3 3 3 b b b b b b b b b b b b b c c c c c c c c c c c c c c c c c c c c c c c c c c c c 
-        c c c c c c c c c c c c c c c c c c c c b b b b b b b b b b b b b 3 3 3 3 3 3 3 3 3 3 3 3 3 3 3 5 5 5 5 5 5 5 5 5 5 5 5 5 5 5 5 5 5 5 5 5 5 5 5 5 5 5 5 5 5 5 5 5 5 5 5 5 5 5 5 5 5 5 5 5 5 5 5 5 5 5 5 5 5 5 5 5 5 5 3 3 3 3 3 3 3 3 3 3 3 3 3 b b b b b b b b b b b b c c c c c c c c c c c c c c c c c c c c c c c c c c c c 
-        c c c c c c c c c c c c c c c c c c c b b b b b b b b b b b b b b 3 3 3 3 3 3 3 3 3 3 3 3 3 3 5 5 5 5 5 5 5 5 5 5 5 5 5 5 5 5 5 5 5 5 5 5 5 5 5 5 5 5 5 5 5 5 5 5 5 5 5 5 5 5 5 5 5 5 5 5 5 5 5 5 5 5 5 5 5 5 5 5 5 5 5 3 3 3 3 3 3 3 3 3 3 3 3 b b b b b b b b b b b b c c c c c c c c c c c c c c c c c c c c c c c c c c c c 
-        c c c c c c c c c c c c c c c c c c c b b b b b b b b b b b b b 3 3 3 3 3 3 3 3 3 3 3 3 3 3 5 5 5 5 5 5 5 5 5 5 5 5 5 5 5 5 5 5 5 5 5 5 5 5 5 5 5 5 5 5 5 5 5 5 5 5 5 5 5 5 5 5 5 5 5 5 5 5 5 5 5 5 5 5 5 5 5 5 5 5 5 5 5 3 3 3 3 3 3 3 3 3 3 3 b b b b b b b b b b b b b c c c c c c c c c c c c c c c c c c c c c c c c c c c 
-        c c c c c c c c c c c c c c c c c c c b b b b b b b b b b b b b 3 3 3 3 3 3 3 3 3 3 3 3 3 5 5 5 5 5 5 5 5 5 5 5 5 5 5 5 5 5 5 5 5 5 5 5 5 5 5 5 5 5 5 5 5 5 5 5 5 5 5 5 5 5 5 5 5 5 5 5 5 5 5 5 5 5 5 5 5 5 5 5 5 5 5 5 5 5 3 3 3 3 3 3 3 3 3 3 b b b b b b b b b b b b b c c c c c c c c c c c c c c c c c c c c c c c c c c c 
-        c c c c c c c c c c c c c c c c c c c b b b b b b b b b b b b b 3 3 3 3 3 3 3 3 3 3 3 3 3 5 5 5 5 5 5 5 5 5 5 5 5 5 5 5 5 5 5 5 5 5 5 5 5 5 5 5 5 5 5 5 5 5 5 5 5 5 5 5 5 5 5 5 5 5 5 5 5 5 5 5 5 5 5 5 5 5 5 5 5 5 5 5 5 5 3 3 3 3 3 3 3 3 3 3 b b b b b b b b b b b b b c c c c c c c c c c c c c c c c c c c c c c c c c c c 
-        c c c c c c c c c c c c c c c c c c b b b b b b b b b b b b b 3 3 3 3 3 3 3 3 3 3 3 3 3 5 5 5 5 5 5 5 5 5 5 5 5 5 5 5 5 5 5 5 5 5 5 5 5 5 5 5 5 5 5 5 5 5 5 5 5 5 5 5 5 5 5 5 5 5 5 5 5 5 5 5 5 5 5 5 5 5 5 5 5 5 5 5 5 5 5 5 3 3 3 3 3 3 3 3 3 3 b b b b b b b b b b b b c c c c c c c c c c c c c c c c c c c c c c c c c c c 
-        c c c c c c c c c c c c c c c c c c b b b b b b b b b b b b b 3 3 3 3 3 3 3 3 3 3 3 3 5 5 5 5 5 5 5 5 5 5 5 5 5 5 5 5 5 5 5 5 5 5 5 5 5 5 5 5 5 5 5 5 5 5 5 5 5 5 5 5 5 5 5 5 5 5 5 5 5 5 5 5 5 5 5 5 5 5 5 5 5 5 5 5 5 5 5 5 5 3 3 3 3 3 3 3 3 3 b b b b b b b b b b b b b c c c c c c c c c c c c c c c c c c c c c c c c c c 
-        c c c c c c c c c c c c c c c c c c b b b b b b b b b b b b b 3 3 3 3 3 3 3 3 3 3 3 3 5 5 5 5 5 5 5 5 5 5 5 5 5 5 5 5 5 5 5 5 5 5 5 5 5 5 5 5 5 5 5 5 5 5 5 5 5 5 5 5 5 5 5 5 5 5 5 5 5 5 5 5 5 5 5 5 5 5 5 5 5 5 5 5 5 5 5 5 5 3 3 3 3 3 3 3 3 3 b b b b b b b b b b b b b c c c c c c c c c c c c c c c c c c c c c c c c c c 
-        c c c c c c c c c c c c c c c c c c b b b b b b b b b b b b 3 3 3 3 3 3 3 3 3 3 3 3 5 5 5 5 5 5 5 5 5 5 5 5 5 5 5 5 5 5 5 5 5 5 5 5 5 5 5 5 5 5 5 5 5 5 5 5 5 5 5 5 5 5 5 5 5 5 5 5 5 5 5 5 5 5 5 5 5 5 5 5 5 5 5 5 5 5 5 5 5 5 5 3 3 3 3 3 3 3 3 b b b b b b b b b b b b b c c c c c c c c c c c c c c c c c c c c c c c c c c 
-        c c c c c c c c c c c c c c c c c c b b b b b b b b b b b b 3 3 3 3 3 3 3 3 3 3 3 3 5 5 5 5 5 5 5 5 5 5 5 5 5 5 5 5 5 5 5 5 5 5 5 5 5 5 5 5 5 5 5 5 5 5 5 5 5 5 5 5 5 5 5 5 5 5 5 5 5 5 5 5 5 5 5 5 5 5 5 5 5 5 5 5 5 5 5 5 5 5 5 3 3 3 3 3 3 3 3 3 b b b b b b b b b b b b c c c c c c c c c c c c c c c c c c c c c c c c c c 
-        c c c c c c c c c c c c c c c c c c b b b b b b b b b b b b 3 3 3 3 3 3 3 3 3 3 3 5 5 5 5 5 5 5 5 5 5 5 5 5 5 5 5 5 5 5 5 5 5 5 5 5 5 5 5 5 5 5 5 5 5 5 5 5 5 5 5 5 5 5 5 5 5 5 5 5 5 5 5 5 5 5 5 5 5 5 5 5 5 5 5 5 5 5 5 5 5 5 5 5 3 3 3 3 3 3 3 3 b b b b b b b b b b b b b c c 5 5 5 5 5 5 5 5 5 5 5 5 5 5 5 5 5 5 5 5 5 5 5 
-        c c c c c c c c c c c c c c c c c c b b b b b b b b b b b 3 3 3 3 3 3 3 3 3 3 3 3 5 5 5 5 5 5 5 5 5 5 5 5 5 5 5 5 5 5 5 5 5 5 5 5 5 5 5 5 5 5 5 5 5 5 5 5 5 5 5 5 5 5 5 5 5 5 5 5 5 5 5 5 5 5 5 5 5 5 5 5 5 5 5 5 5 5 5 5 5 5 5 5 5 5 5 5 5 5 5 5 3 5 5 5 5 5 5 5 5 5 5 5 5 5 5 5 c c c c c c c c c c c c c c c c c c c c c c c 
-        c c c c c c c c c c c c c c c c c c b b b 5 5 5 5 5 5 5 5 5 5 5 5 5 5 5 5 5 5 5 5 5 5 5 5 5 5 5 5 5 5 5 5 5 5 5 5 5 5 5 5 5 5 5 5 5 5 5 5 5 5 5 5 5 5 5 5 c c c c c c c c c c c c c c c c c c c c c c c c c c c c c c c c c c c c c c c c c c c c c c c c c c c c c c c c c c c c c c c c c c c c c c c c c c c c c c c c c c c 
-        5 5 5 5 5 5 5 5 5 5 5 5 5 5 5 5 5 5 5 5 5 c c c c c c c c c c c c c c c c c c c c c c c c c c c c c c c c c c c c c c c c c c c c c c c c c c c c c c c c c c c c c c c c c c c c c c c c c c c c c c c c c c c c c c c c c c c c c c c c c c c c c c c c c c c c c c c c c c c c c c c c c c c c c c c c c c c c c c c c c c c 
-        c c c c c c c c c c c c c c c c c c c c c c c c c c c c c c c c c c c c c c c c c c c c c c c c c c c c c c c c c c c c c c c c c c c c c c c c c c c c c c c c c c c c c c c c c c c c c c c c c c c c c c c c c c c c c c c c c c c c c c c c c c c c c c c c c c c c c c c c c c c c c c c c c c c c c c c c c c c c c c c c 
-        c c c c c c c c c c c c c c c c c c c c c c c c c c c c c c c c c c c c c c c c c c c c c c c c c c c c c c c c c c c c c c c c c c c c c c c c c c c c c c c c c c c c c c c c c c c c c c c c c c c c c c c c c c c c c c c c c c c c c c c c c c c c c c c c c c c c c c c c c c c c c c c c c c c c c c c c c c c c c c c c 
-        c c c c c c c c c c c c c c c c c c c c c c c c c c c c c c c c c c c c c c c c c c c c c c c c c c c c c c c c c c c c c c c c c c c c c c c c c c c c c c c c c c c c c c c c c c c c c c c c c c c c c c c c c c c c c c c c c c c c c c c c c c c c c c c c c c c c c c c c c c c c c c c c c c c c c c c c c c c c c c c c 
-        c c c c c c c c c c c c c c c c c c c c c c c c c c c c c c c c c c c c c c c c c c c c c c c c c c c c c c c c c c c c c c c c c c c c c c c c c c c c c c c c c c c c c c c c c c c c c c c c c c c c c c c c c c c c c c c c c c c c c c c c c c c c c c c c c c c c c c c c c c c c c c c c c c c c c c c c c c c c c c c c 
-        c c c c c c c c c c c c c c c c c c c c c c c c c c c c c c c c c c c c c c c c c c c c c c c c c c c c c c c c c c c c c c c c c c c c c c c c c c c c c c c c c c c c c c c c c c c c c c c c c c c c c c c c c c c c c c c c c c c c c c c c c c c c c c c c c c c c c c c c c c c c c c c c c c c c c c c c c c c c c c c c 
-        c c c c c c c c c c c c c c c c c c c c c c c c c c c c c c c c c c c c c c c c c c c c c c c c c c c c c c c c c c c c c c c c c c c c c c c c c c c c c c c c c c c c c c c c c c c c c c c c c c c c c c c c c c c c c c c c c c c c c c c c c c c c c c c c c c c c c c c c c c c c c c c c c c c c c c c c c c c c c c c c 
-        c c c c c c c c c c c c c c c c c c c c c c c c c c c c c c c c c c c c c c c c c c c c c c c c c c c c c c c c c c c c c c c c c c c c c c c c c c c c c c c c c c c c c c c c c c c c c c c c c c c c c c c c c c c c c c c c c c c c c c c c c c c c c c c c c c c c c c c c c c c c c c c c c c c c c c c c c c c c c c c c 
-        c c c c c c c c c c c c c c c c c c c c c c c c c c c c c c c c c c c c c c c c c c c c c c c c c c c c c c c c c c c c c c c c c c c c c c c c c c c c c c c c c c c c c c c c c c c c c c c c c c c c c c c c c c c c c c c c c c c c c c c c c c c c c c c c c c c c c c c c c c c c c c c c c c c c c c c c c c c c c c c c 
-        c c c c c c c c c c c c c c c c c c c c c c c c c c c c c c c c c c c c c c c c c c c c c c c c c c c c c c c c c c c c c c c c c c c c c c c c c c c c c c c c c c c c c c c c c c c c c c c c c c c c c c c c c c c c c c c c c c c c c c c c c c c c c c c c c c c c c c c c c c c c c c c c c c c c c c c c c c c c c c c c 
-        c c c c c c c c c c c c c c c c c c c c c c c c c c c c c c c c c c c c c c c c c c c c c c c c c c c c c c c c c c c c c c c c c c c c c c c c c c c c c c c c c c c c c c c c c c c c c c c c c c c c c c c c c c c c c c c c c c c c c c c c c c c c c c c c c c c c c c c c c c c c c c c c c c c c c c c c c c c c c c c c 
-        c c c c c c c c c c c c c c c c c c c c c c c c c c c c c c c c c c c c c c c c c c c c c c c c c c c c c c c c c c c c c c c c c c c c c c c c c c c c c c c c c c c c c c c c c c c c c c c c c c c c c c c c c c c c c c c c c c c c c c c c c c c c c c c c c c c c c c c c c c c c c c c c c c c c c c c c c c c c c c c c 
-        c c c c c c c c c c c c c c c c c c c c c c c c c c c c c c c c c c c c c c c c c c c c c c c c c c c c c c c c c c c c c c c c c c c c c c c c c c c c c c c c c c c c c c c c c c c c c c c c c c c c c c c c c c c c c c c c c c c c c c c c c c c c c c c c c c c c c c c c c c c c c c c c c c c c c c c c c c c c c c c c 
-        c c c c c c c c c c c c c c c c c c c c c c c c c c c c c c c c c c c c c c c c c c c c c c c c c c c c c c c c c c c c c c c c c c c c c c c c c c c c c c c c c c c c c c c c c c c c c c c c c c c c c c c c c c c c c c c c c c c c c c c c c c c c c c c c c c c c c c c c c c c c c c c c c c c c c c c c c c c c c c c c 
-        c c c c c c c c c c c c c c c c c c c c c c c c c c c c c c c c c c c c c c c c c c c c c c c c c c c c c c c c c c c c c c c c c c c c c c c c c c c c c c c c c c c c c c c c c c c c c c c c c c c c c c c c c c c c c c c c c c c c c c c c c c c c c c c c c c c c c c c c c c c c c c c c c c c c c c c c c c c c c c c c 
-        `)
-    tiles.setTilemap(tiles.createTilemap(hex`1000100000000000000000000000000000000000000000000000000000000000000000000006040404040404030404000000000000050101010101010201010000000000000000000000000000000000000000000000000000000000000000000000000000000000000000000000000000000000000000000000000000000000000000000000000000000000000000000000000000000000000000000000000000000000000000000000000000000000000000000000000000000000000000000000000000000000000000000000000000000000000000000000000000000000000000000000000000000000000000000000000000000000000000000000000000000000`, img`
+    scene.setBackgroundColor(15)
[1 lines of base64/hex data omitted]
         . . . . . . . . . . . . . . . . 
-        2 2 2 2 2 2 2 2 2 2 2 . . . . . 
-        2 . . . . . . . . . . . . . . . 
-        2 . . . . . . . . . . . . . . . 
-        2 2 2 2 2 2 2 2 2 2 2 . . . . . 
+        2 2 2 2 2 2 2 2 2 2 2 2 2 . . . 
+        2 . . . . . . . 2 . . . 2 . . . 
+        2 . . . . . . . 2 . . . 2 . . . 
+        2 . . . . . . . 2 . . . 2 . . . 
+        2 . . . . . . . 2 . . . 2 . . . 
+        2 . . . . . . . . . . . 2 . . . 
+        2 2 2 2 2 2 2 2 2 2 2 2 2 . . . 
         . . . . . . . . . . . . . . . . 
         . . . . . . . . . . . . . . . . 
         . . . . . . . . . . . . . . . . 
@@ -375,13 +286,30 @@ function StartGame () {
         . . . . . . . . . . . . . . . . 
         . . . . . . . . . . . . . . . . 
         . . . . . . . . . . . . . . . . 
+        `, [myTiles.transparency16,myTiles.tile2,myTiles.tile3,myTiles.tile5,myTiles.tile6,myTiles.tile7,myTiles.tile9,myTiles.tile1,myTiles.tile4,myTiles.tile8,myTiles.tile10], TileScale.Sixteen))
+    SaveDiamond = sprites.create(img`
         . . . . . . . . . . . . . . . . 
         . . . . . . . . . . . . . . . . 
         . . . . . . . . . . . . . . . . 
-        `, [myTiles.transparency16,myTiles.tile2,myTiles.tile3,myTiles.tile5,myTiles.tile6,myTiles.tile7,myTiles.tile9], TileScale.Sixteen))
+        . . . . . . . 7 . . . . . . . . 
+        . . . . . . 7 6 7 . . . . . . . 
+        . . . . . 7 7 7 6 7 . . . . . . 
+        . . . . 7 7 7 6 6 6 7 . . . . . 
+        . . . 7 7 7 7 7 6 6 6 7 . . . . 
+        . . 7 7 7 7 7 6 6 6 6 6 7 . . . 
+        . . . 7 7 7 7 7 6 6 6 7 . . . . 
+        . . . . 7 7 7 6 6 6 7 . . . . . 
+        . . . . . 7 7 7 6 7 . . . . . . 
+        . . . . . . 7 6 7 . . . . . . . 
+        . . . . . . . 7 . . . . . . . . 
+        . . . . . . . . . . . . . . . . 
+        . . . . . . . . . . . . . . . . 
+        `, SpriteKind.save)
     controller.moveSprite(Character)
     scene.cameraFollowSprite(Character)
+    SaveDiamond.setPosition(19, 44)
 }
+let SaveDiamond: Sprite = null
 let Character: Sprite = null
 let NameCharacter = ""
 let characterselectishappening = 0

diff --git a/tilemap.g.ts b/tilemap.g.ts
@@ -20,6 +20,8 @@ namespace myTiles {
     export const tile8 = image.ofBuffer(hex``);
     //% fixedInstance jres blockIdentity=images._tile
     export const tile9 = image.ofBuffer(hex``);
+    //% fixedInstance jres blockIdentity=images._tile
+    export const tile10 = image.ofBuffer(hex``);
 
 }
 // Auto-generated code. Do not edit.
